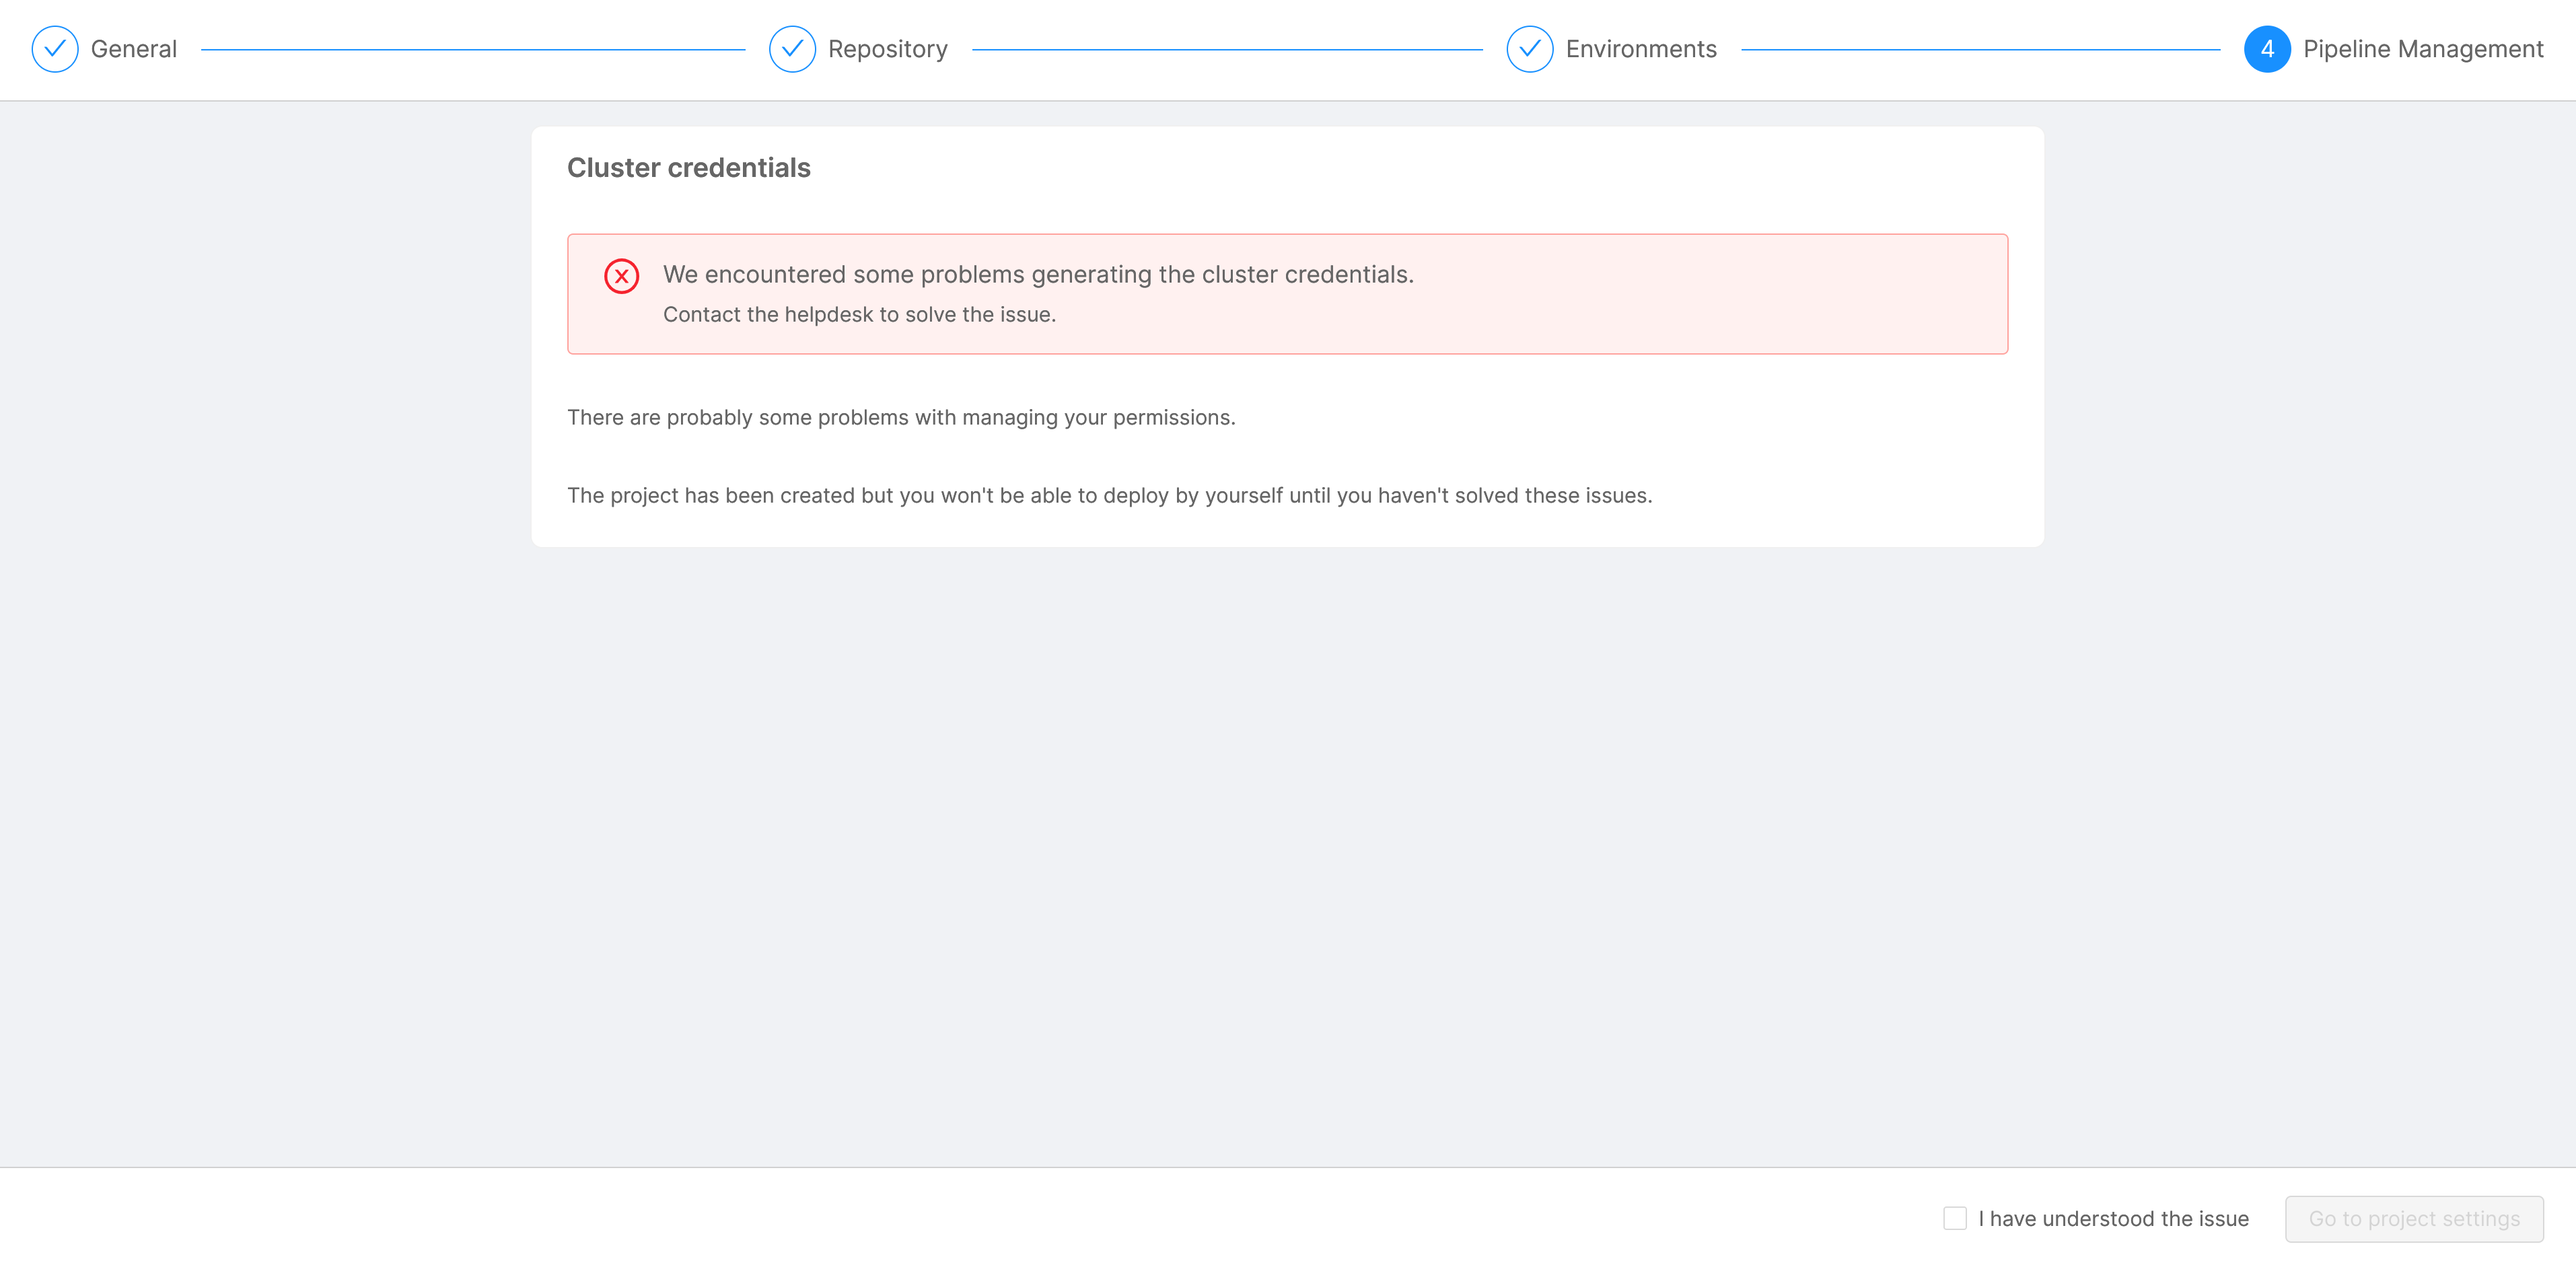
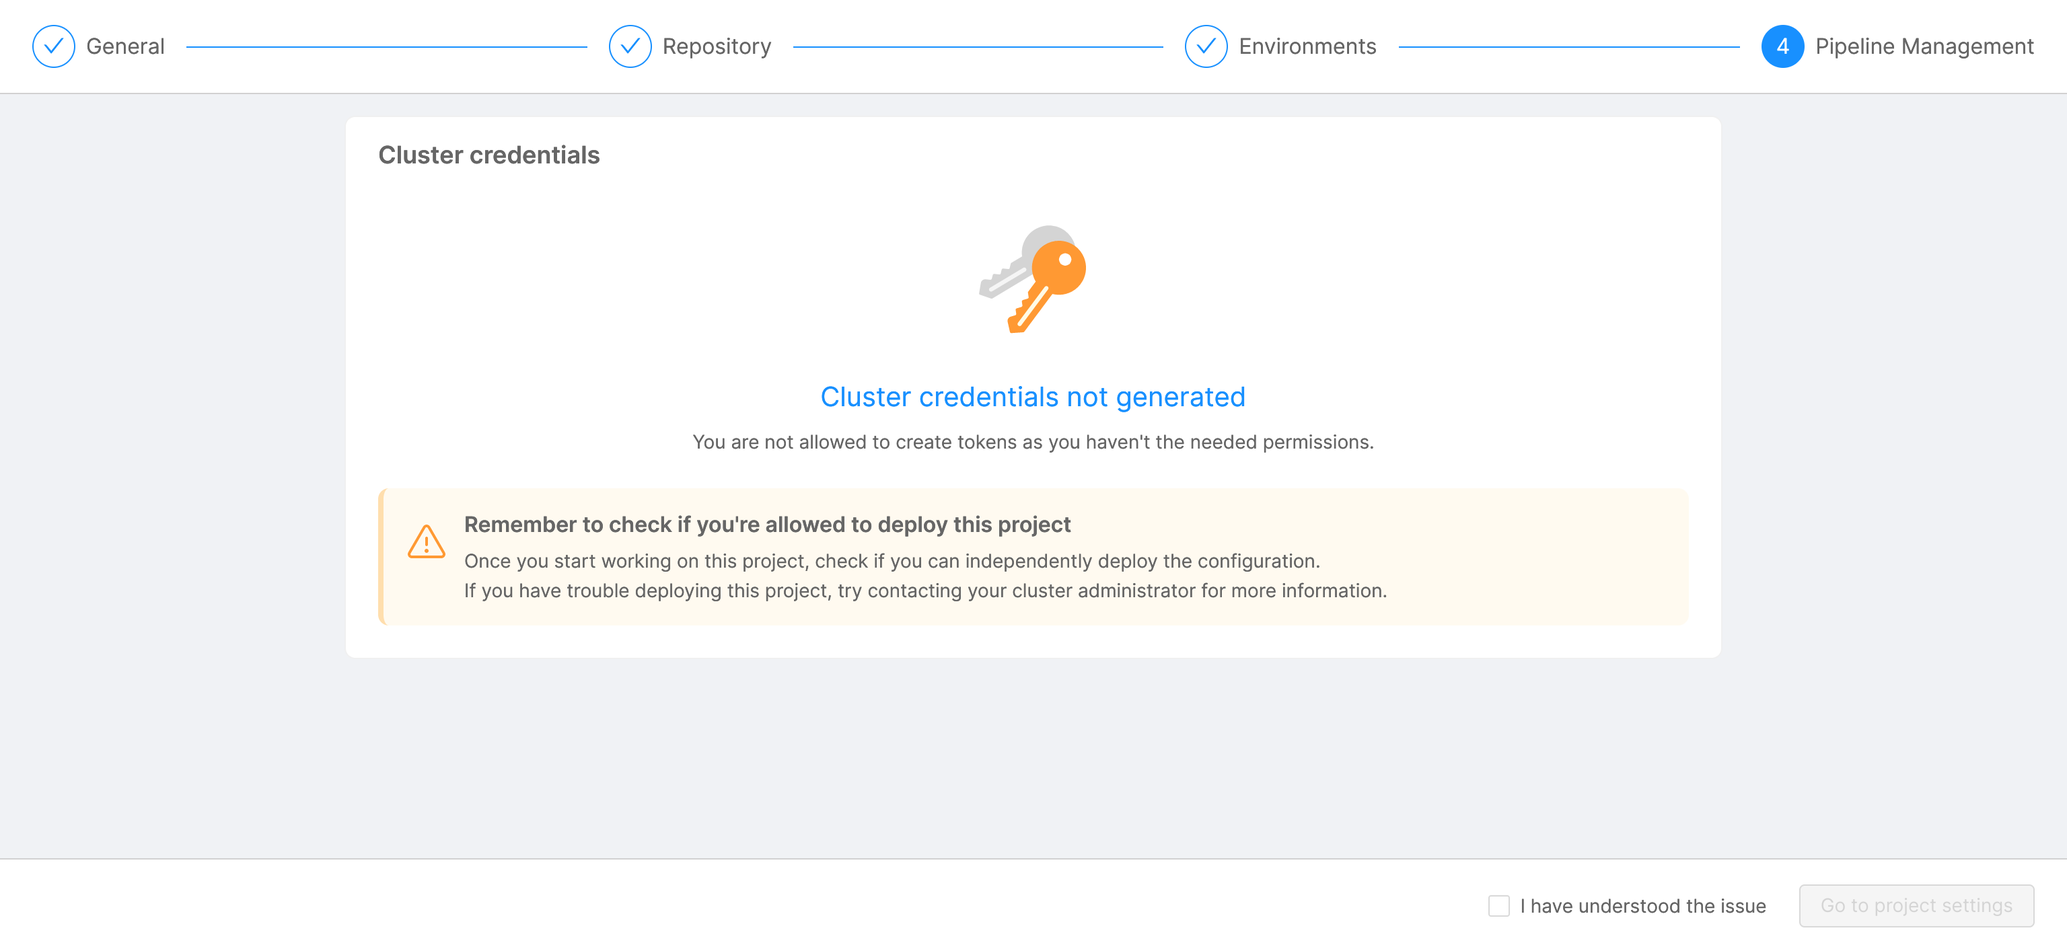
Edit (MTOT-43): create project section

diff --git a/docs/development_suite/set-up-infrastructure/create-project.md b/docs/development_suite/set-up-infrastructure/create-project.md
@@ -458,9 +458,13 @@ For security reasons, there is no way to come back to this page or another one d
 
 ![create-project4](img/create-project4.png)
 
-In case of errors generating the cluster credentials, an alert is displayed instead of the table, and it is necessary to confirm that you have understood the situation before continuing.
+In case of errors generating the cluster credentials, an alert is displayed instead of the table, and it is necessary to confirm that you have understood the issue before continuing.
 
 ![create-project-error](img/create-project-error.png)
+
+:::tip
+This situation occurs when the pipeline has not been properly configured, or the deployment permissions are missing. Our suggestion - once the checkbox is checked and the project creation process is finished - is to open the project, save the configuration, try to deploy, and check whether or not the deployment is successful. In case of unsuccessful deployment, contact your administrator asking for the proper pipeline permissions to deploy.
+:::
 
 In any case, at the end of the process, your project will be visible in the Home section of your Console.
 
